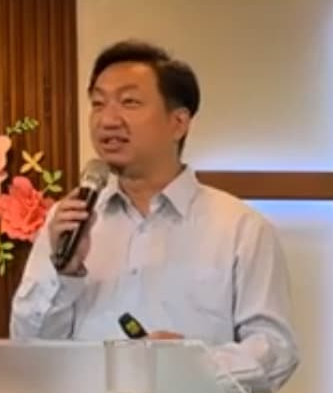
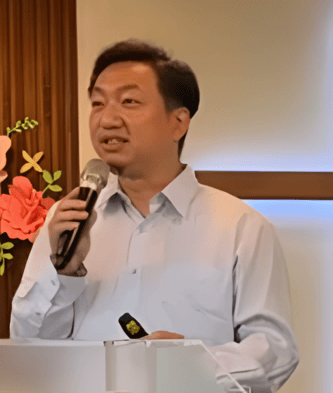
Add pastor gallery entries

diff --git a/index.html b/index.html
@@ -401,6 +401,30 @@ const pastors = [
     role: "牧者",
     church: "多加教會",
     photo: "photos/pastor-19.png"
+  },
+  {
+    name: "郭紫晶",
+    role: "傳道",
+    church: "中壢靈糧堂",
+    photo: "photos/pastor-20.png"
+  },
+  {
+    name: "徐柏帆",
+    role: "牧者",
+    church: "中壢靈糧堂",
+    photo: "photos/pastor-21.png"
+  },
+  {
+    name: "陳華珠",
+    role: "牧者",
+    church: "利河伯使徒中心",
+    photo: "photos/pastor-22.png"
+  },
+  {
+    name: "陳佩玲",
+    role: "牧者",
+    church: "台北真理堂",
+    photo: "photos/pastor-23.png"
   }
 ];
 
